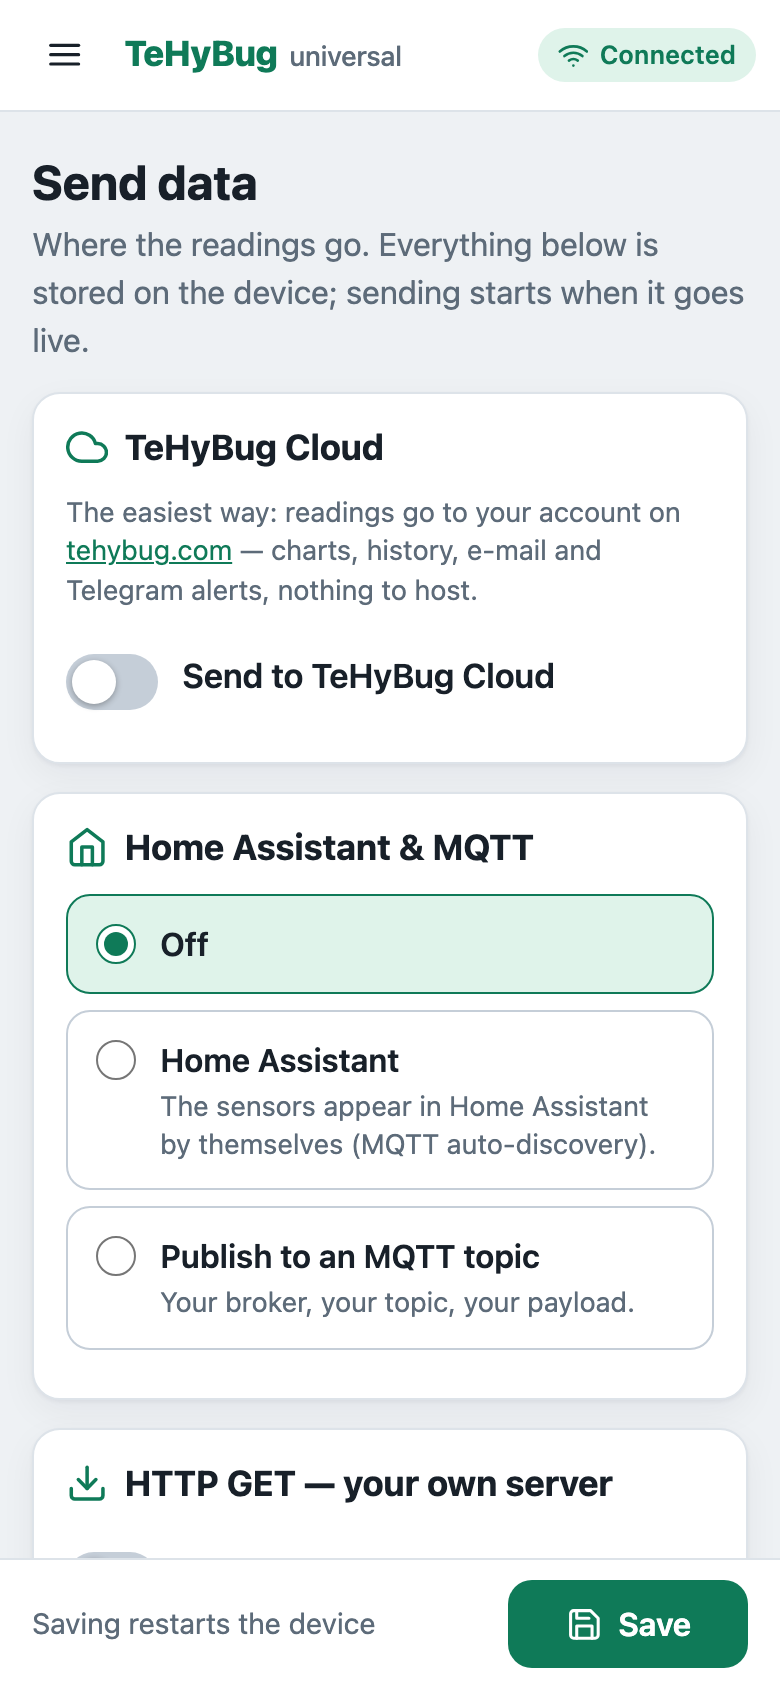
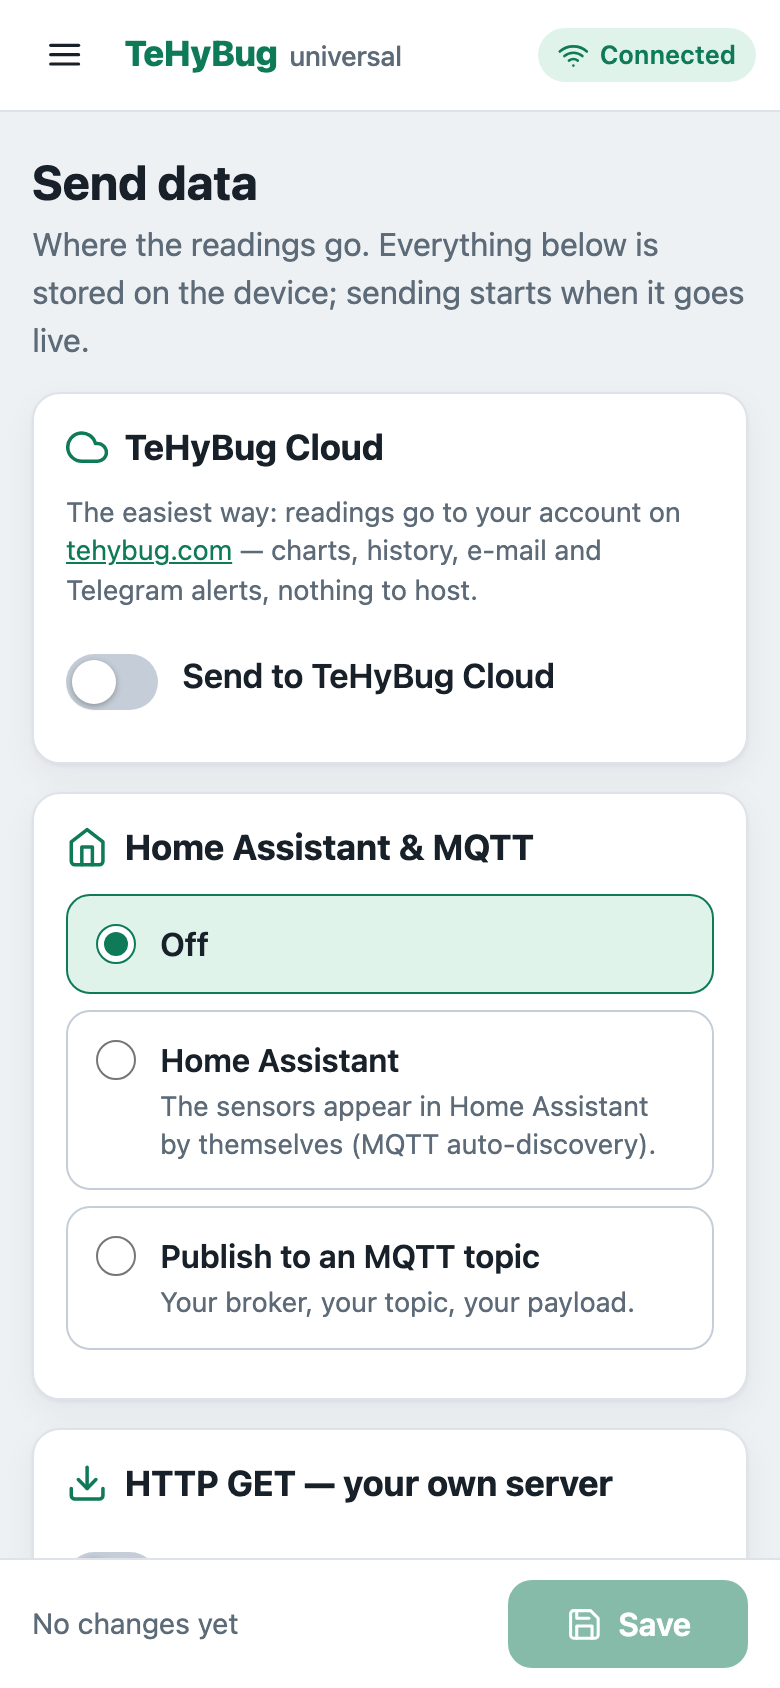
README: current screenshots and first-steps text
The dashboard and phone shots are retaken from the mock (greyed Go live
until a destination exists, 'No changes yet' save bar). The WiFi portal
picture now shows the device's own page: TeHyBug title, the note on
where setup continues and the skip button. The first-steps text follows:
the portal's hand-over shows the new address, Save lights up on a
change, Go live opens with a checklist.

tools/screenshot.js waits longer for headless Chrome, which takes more
than 15 s to come up since the last Chrome update.

Changed region(s): [[0.6462, 0.9242, 0.9846, 1.0], [0.0308, 0.955, 0.4923, 0.9858]]

diff --git a/tools/screenshot.js b/tools/screenshot.js
@@ -45,7 +45,7 @@ const getJson = (u, method) => new Promise((res, rej) => {
   process.on('exit', cleanup);
   try {
     let target = null, lastError = '';
-    for (let i = 0; i < 75 && !target; i++) { await sleep(200); try { target = await getJson('http://127.0.0.1:' + port + '/json/new?about:blank', 'PUT'); } catch (e) { lastError = e.message; } }
+    for (let i = 0; i < 200 && !target; i++) { await sleep(200); try { target = await getJson('http://127.0.0.1:' + port + '/json/new?about:blank', 'PUT'); } catch (e) { lastError = e.message; } }
     if (!target) throw new Error('Chrome did not come up on port ' + port + ' (' + lastError + ')');
     const ws = new WebSocket(target.webSocketDebuggerUrl);
     await new Promise((res, rej) => { ws.onopen = res; ws.onerror = () => rej(new Error('devtools socket failed')); });

diff --git a/README.md b/README.md
@@ -186,7 +186,7 @@ Demo of the web interface (a simulated device, nothing to flash): https://tehybu
 - TeHyBug will boot, the LED will turn solid blue
 - Connect to a TeHyBug wifi network like the image below (Password: TeHyBug123)
 - <img src="images/wifimanager.png" width="350">
-- open http://192.168.4.1/ in your browser, and click the configuration button (the page also offers *Skip WiFi for now → open the configuration*, which takes you straight to the TeHyBug configuration on this access point; and after saving your WiFi it hands you over there by itself)
+- open http://192.168.4.1/ in your browser and tap *Configure WiFi* (the page also offers *Skip WiFi → open the configuration*, which takes you straight to the TeHyBug configuration on this access point; after saving your WiFi, the page shows the device's new address on your network and hands you over there by itself)
 - <img src="images/credentials.png" width="350">
 - Provide credentials of your WIFI network and save them
 - If your credentials were correct, the TeHyBug WIFI network will disapear
@@ -196,8 +196,8 @@ Demo of the web interface (a simulated device, nothing to flash): https://tehybu
 Then, on the web interface:
 
 1. **Sensors** — switch on the sensor(s) you attached (I²C sensors are detected automatically), and check the readings appear on the Dashboard.
-2. **Send data** — TeHyBug Cloud, Home Assistant, MQTT, or your own server by HTTP, all on one page. The *"Fill from my sensors"* links build the MQTT payload / POST body / GET query from the sensors this device actually reports, in °C or °F. Save.
-3. **Go live** — the button on the Dashboard (or on *Power & go live*): pick the power mode (Deep sleep for battery) and confirm. The device restarts and starts sending; on battery boards the web interface stops being served, which is expected. The Dashboard's set-up checklist shows which of the three steps are done.
+2. **Send data** — TeHyBug Cloud, Home Assistant, MQTT, or your own server by HTTP, all on one page. The *"Fill from my sensors"* links build the MQTT payload / POST body / GET query from the sensors this device actually reports, in °C or °F. Save — the button only lights up once something changed, and says whether saving restarts the device.
+3. **Go live** — the button on the Dashboard (or on *Power & go live*), greyed out until a destination is set: it opens with a checklist of readings and destinations, then pick the power mode (Deep sleep for battery) and confirm. The device restarts and starts sending; on battery boards the web interface stops being served, which is expected. The Dashboard's set-up checklist shows which of the three steps are done.
 4. **Getting back in later** — press RESET, then MODE within a second (see "Return to Config mode" above). A device that has nothing configured to serve always starts its setup portal, so it can't lock you out.
 5. **Changing the WiFi network** — *Power & go live → Change WiFi network* restarts the device into its own access point with the network chooser; nothing else is erased, and *Exit* keeps the old network. If the saved network is simply gone, setup mode opens the chooser by itself.
 
